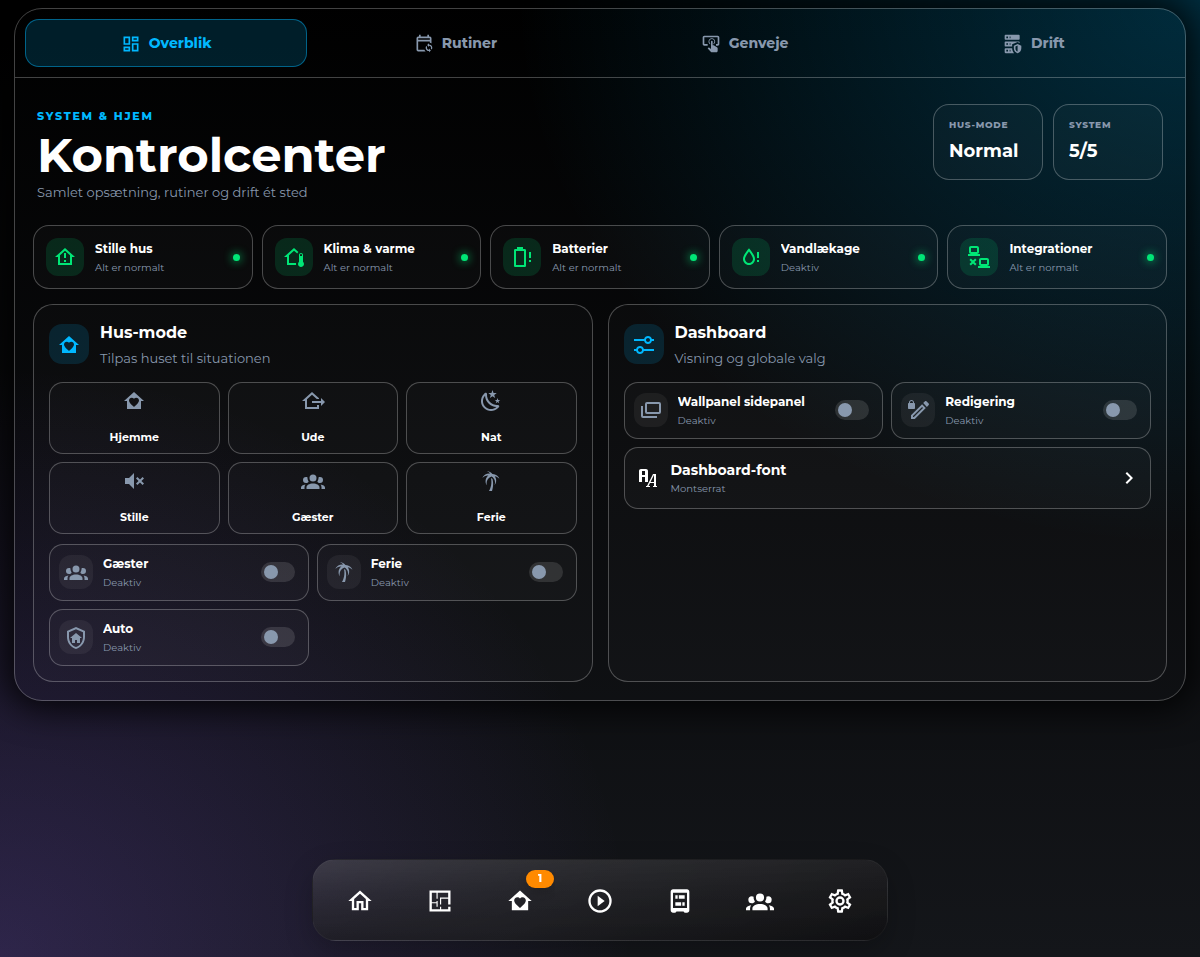
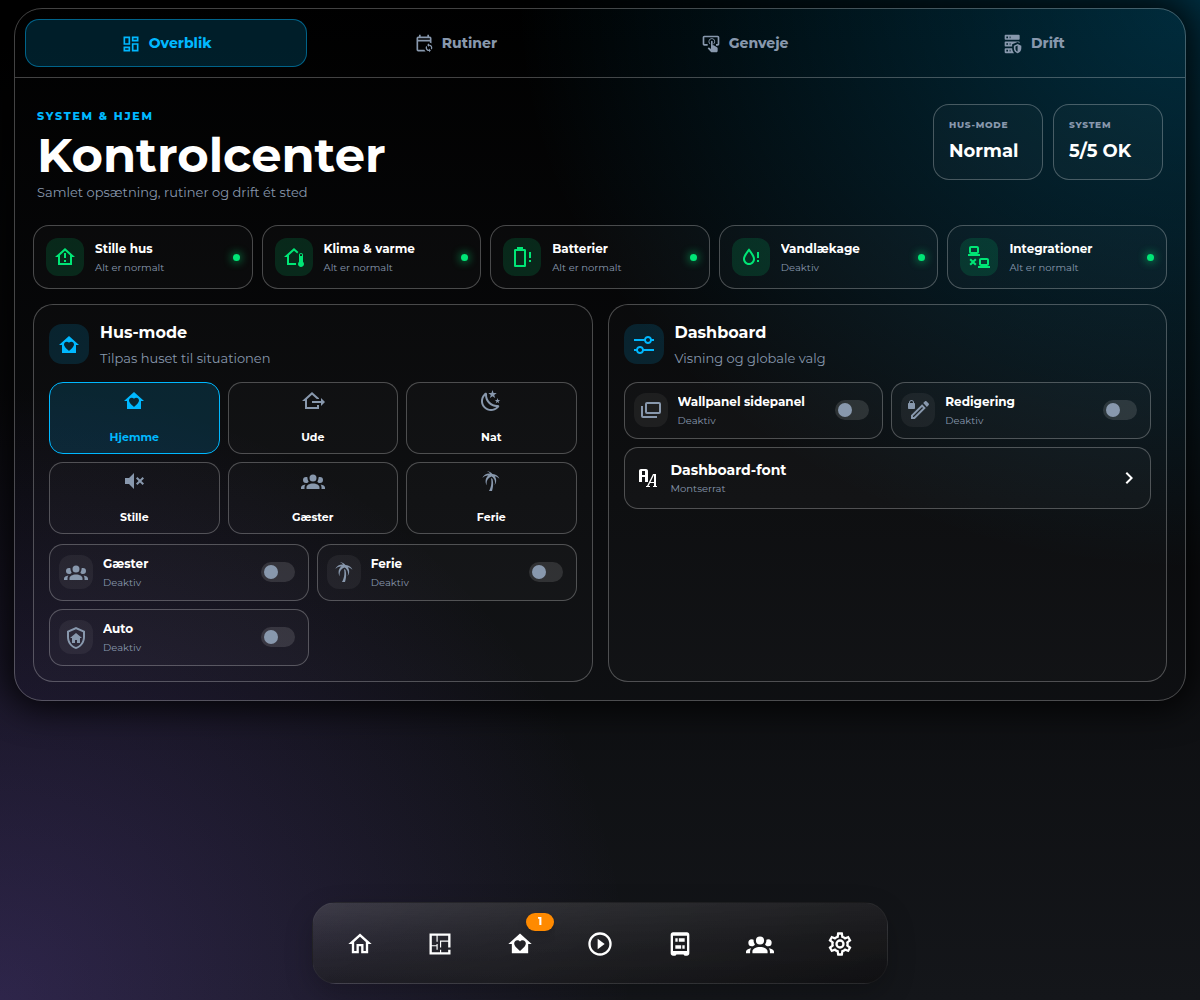
Improve settings status visibility

diff --git a/ha-settings-center-card.js b/ha-settings-center-card.js
@@ -1,4 +1,4 @@
-const VERSION="0.1.3";
+const VERSION="0.1.4";
 class HASettingsCenterCard extends HTMLElement{
  constructor(){super();this.attachShadow({mode:"open"});this._config={};this._hass=null;this._tab="overview";this._stateSig="";this._interactionUntil=0;this._deferredRender=null}
  static getStubConfig(){return{title:"Kontrolcenter",default_tab:"overview",overview:{},tabs:{automation_groups:[],control_groups:[],operations:{}}}}
@@ -19,18 +19,19 @@ class HASettingsCenterCard extends HTMLElement{
  _navigate(path){history.pushState(null,"",path);window.dispatchEvent(new Event("location-changed"))}
  _friendlyState(id){const e=this._e(id),s=e?.state;if(!e)return"Mangler";if(s==="on")return"Aktiv";if(s==="off")return"Deaktiv";if(["unknown","unavailable"].includes(s))return"Ikke tilgængelig";return e.attributes?.friendly_name&&s?String(s).replaceAll("_"," "):s}
  _tabs(){return[{id:"overview",name:"Overblik",icon:"mdi:view-dashboard-outline"},{id:"routines",name:"Rutiner",icon:"mdi:calendar-sync-outline"},{id:"controls",name:"Genveje",icon:"mdi:gesture-tap-button"},{id:"operations",name:"Drift",icon:"mdi:server-security"}]}
- _status(item){const e=this._e(item.entity),binary=item.binary,problem=binary?this._isOn(item.entity):Number(e?.state)>0||["critical","warn","error","failed"].includes(String(e?.state).toLowerCase());let detail="Alt er normalt";if(problem)detail=binary?"Registreret":`${e?.state||0} kræver fokus`;else if(e&&!Number.isFinite(Number(e.state)))detail=this._friendlyState(item.entity);return `<button class="status ${problem?"problem":"ok"}" data-more="${this._esc(item.entity)}"><span class="ico">${this._icon(item.icon)}</span><span><b>${this._esc(item.name)}</b><small>${this._esc(detail)}</small></span><i></i></button>`}
+ _problem(item){const e=this._e(item.entity);return item.binary?this._isOn(item.entity):Number(e?.state)>0||["critical","warn","error","failed"].includes(String(e?.state).toLowerCase())}
+ _status(item){const e=this._e(item.entity),binary=item.binary,problem=this._problem(item);let detail="Alt er normalt";if(problem)detail=binary?"Registreret":`${e?.state||0} kræver fokus`;else if(e&&!Number.isFinite(Number(e.state)))detail=this._friendlyState(item.entity);return `<button class="status ${problem?"problem":"ok"}" data-more="${this._esc(item.entity)}"><span class="ico">${this._icon(item.icon)}</span><span><b>${this._esc(item.name)}</b><small>${this._esc(detail)}</small></span><i></i></button>`}
  _toggleItem(item){const on=this._isOn(item.entity),avail=this._available(item.entity);return `<button class="toggle ${on?"on":""} ${avail?"":"missing"}" data-toggle="${this._esc(item.entity)}"><span class="ico">${this._icon(item.icon||"mdi:toggle-switch-outline")}</span><span><b>${this._esc(item.name)}</b><small>${avail?(on?"Aktiv":"Deaktiv"):"Ikke tilgængelig"}</small></span><i><em></em></i></button>`}
  _numberItem(item){const e=this._e(item.entity),value=e?.state??"—",unit=e?.attributes?.unit_of_measurement||item.unit||"",sensor=item.sensor_entity?this._state(item.sensor_entity):null;return `<article class="number"><div><b>${this._esc(item.name)}</b>${sensor!==null?`<small>Målt ${this._esc(sensor)}${this._esc(item.sensor_unit||"")}</small>`:""}</div><div class="step"><button data-step="${this._esc(item.entity)}|-">−</button><strong>${this._esc(value)}<small>${this._esc(unit)}</small></strong><button data-step="${this._esc(item.entity)}|+">+</button></div></article>`}
  _entityItem(item){const state=this._friendlyState(item.entity);return `<button class="select-row" data-more="${this._esc(item.entity)}">${this._icon(item.icon||"mdi:tune-variant")}<span><b>${this._esc(item.name)}</b><small>${this._esc(state)}</small></span>${this._icon("mdi:chevron-right")}</button>`}
- _group(g){const kind=g.kind||"toggle",items=g.items||[];return `<section class="group"><header><span class="section-icon">${this._icon(g.icon)}</span><div><h3>${this._esc(g.title)}</h3>${g.subtitle?`<p>${this._esc(g.subtitle)}</p>`:""}</div><span class="count">${items.length}</span></header><div class="items kind-${kind}">${items.map(x=>kind==="number"?this._numberItem(x):kind==="entity"?this._entityItem(x):this._toggleItem(x)).join("")}</div></section>`}
- _overview(){const o=this._config.overview||{},mode=o.mode||{},current=this._state(mode.entity);return `<div class="pane overview"><section class="hero"><div><span class="eyebrow">SYSTEM & HJEM</span><h2>${this._esc(this._config.title)}</h2><p>Samlet opsætning, rutiner og drift ét sted</p></div><div class="hero-stats"><span><small>HUS-MODE</small><b>${this._esc(current)}</b></span><span><small>SYSTEM</small><b>${(o.status_items||[]).filter(x=>this._available(x.entity)).length}/${(o.status_items||[]).length}</b></span></div></section><section class="status-grid">${(o.status_items||[]).map(x=>this._status(x)).join("")}</section><div class="overview-grid"><section class="group mode"><header><span class="section-icon">${this._icon("mdi:home-heart")}</span><div><h3>Hus-mode</h3><p>Tilpas huset til situationen</p></div></header><div class="mode-grid">${(mode.options||[]).map(x=>`<button class="mode-btn ${current===x.value?"active":""}" data-mode="${this._esc(mode.entity)}|${this._esc(x.value)}">${this._icon(x.icon)}<b>${this._esc(x.name)}</b></button>`).join("")}</div><div class="items kind-toggle">${(mode.overrides||[]).map(x=>this._toggleItem(x)).join("")}</div></section><section class="group quick"><header><span class="section-icon">${this._icon("mdi:tune-variant")}</span><div><h3>Dashboard</h3><p>Visning og globale valg</p></div></header><div class="items kind-toggle">${(o.dashboard_items||[]).map(x=>this._toggleItem(x)).join("")}</div>${o.font_entity?`<button class="select-row" data-more="${this._esc(o.font_entity)}">${this._icon("mdi:format-font")}<span><b>Dashboard-font</b><small>${this._esc(this._state(o.font_entity))}</small></span>${this._icon("mdi:chevron-right")}</button>`:""}</section></div></div>`}
+ _group(g){const kind=g.kind||"toggle",items=g.items||[],active=items.filter(x=>this._isOn(x.entity)).length,missing=items.filter(x=>!this._available(x.entity)).length,badge=kind==="toggle"?`${active}/${items.length} aktive`:missing?`${missing} mangler`:`${items.length} valg`;return `<section class="group"><header><span class="section-icon">${this._icon(g.icon)}</span><div><h3>${this._esc(g.title)}</h3>${g.subtitle?`<p>${this._esc(g.subtitle)}</p>`:""}</div><span class="count ${missing?"warn":""}">${badge}</span></header><div class="items kind-${kind}">${items.map(x=>kind==="number"?this._numberItem(x):kind==="entity"?this._entityItem(x):this._toggleItem(x)).join("")}</div></section>`}
+ _overview(){const o=this._config.overview||{},mode=o.mode||{},current=this._state(mode.entity);return `<div class="pane overview"><section class="hero"><div><span class="eyebrow">SYSTEM & HJEM</span><h2>${this._esc(this._config.title)}</h2><p>Samlet opsætning, rutiner og drift ét sted</p></div><div class="hero-stats"><span><small>HUS-MODE</small><b>${this._esc(current)}</b></span><span><small>SYSTEM</small><b>${(o.status_items||[]).filter(x=>this._available(x.entity)&&!this._problem(x)).length}/${(o.status_items||[]).length} OK</b></span></div></section><section class="status-grid">${(o.status_items||[]).map(x=>this._status(x)).join("")}</section><div class="overview-grid"><section class="group mode"><header><span class="section-icon">${this._icon("mdi:home-heart")}</span><div><h3>Hus-mode</h3><p>Tilpas huset til situationen</p></div></header><div class="mode-grid">${(mode.options||[]).map(x=>`<button class="mode-btn ${current===x.value?"active":""}" data-mode="${this._esc(mode.entity)}|${this._esc(x.value)}">${this._icon(x.icon)}<b>${this._esc(x.name)}</b></button>`).join("")}</div><div class="items kind-toggle">${(mode.overrides||[]).map(x=>this._toggleItem(x)).join("")}</div></section><section class="group quick"><header><span class="section-icon">${this._icon("mdi:tune-variant")}</span><div><h3>Dashboard</h3><p>Visning og globale valg</p></div></header><div class="items kind-toggle">${(o.dashboard_items||[]).map(x=>this._toggleItem(x)).join("")}</div>${o.font_entity?`<button class="select-row" data-more="${this._esc(o.font_entity)}">${this._icon("mdi:format-font")}<span><b>Dashboard-font</b><small>${this._esc(this._state(o.font_entity))}</small></span>${this._icon("mdi:chevron-right")}</button>`:""}</section></div></div>`}
  _routines(){return `<div class="pane"><div class="pane-title"><span><b>Automatik & rutiner</b><small>Presence, lys, tider og varme</small></span></div><div class="groups">${(this._config.automation_groups||[]).map(g=>this._group(g)).join("")}</div></div>`}
  _controls(){return `<div class="pane"><div class="pane-title"><span><b>Direkte styring</b><small>Maskiner, udelys og scener</small></span></div><div class="groups">${(this._config.control_groups||[]).map(g=>this._group(g)).join("")}</div>${this._scene()}</div>`}
  _scene(){const s=this._config.scene;if(!s)return"";return `<section class="group scene"><header><span class="section-icon">${this._icon("mdi:movie-open")}</span><div><h3>${this._esc(s.title)}</h3><p>Lysniveau og farve til film</p></div>${this._toggleItem({entity:s.toggle_entity,name:s.toggle_name,icon:"mdi:movie-open"})}</header><div class="scene-grid">${(s.lights||[]).map(l=>`<article><span class="ico">${this._icon(l.icon)}</span><div><b>${this._esc(l.name)}</b><small>${this._esc(this._state(l.brightness_entity))}% · ${this._esc(this._state(l.color_entity))}</small></div><button data-more="${this._esc(l.brightness_entity)}">Lys</button><button data-more="${this._esc(l.color_entity)}">Farve</button></article>`).join("")}</div></section>`}
  _operations(){const o=this._config.operations||{};return `<div class="pane"><div class="pane-title"><span><b>Drift & vedligehold</b><small>Systemstatus og sikre handlinger</small></span>${o.info_path?`<button class="link" data-nav="${this._esc(o.info_path)}">Systeminfo ${this._icon("mdi:arrow-right")}</button>`:""}</div><section class="metrics">${(o.metrics||[]).map(m=>`<button data-more="${this._esc(m.entity)}"><span>${this._icon(m.icon)}</span><small>${this._esc(m.name)}</small><b>${this._esc(this._state(m.entity))}${this._esc(m.unit||"")}</b></button>`).join("")}</section><div class="action-groups">${(o.groups||[]).map(g=>`<section class="group actions"><header><span class="section-icon">${this._icon(g.icon)}</span><div><h3>${this._esc(g.title)}</h3><p>${this._esc(g.subtitle||"")}</p></div></header><div>${(g.items||[]).map(a=>`<button class="action ${a.danger?"danger":""}" data-action="${this._esc(JSON.stringify(a))}"><span>${this._icon(a.icon)}</span><span><b>${this._esc(a.name)}</b><small>${this._esc(a.description||"")}</small></span>${this._icon("mdi:chevron-right")}</button>`).join("")}</div></section>`).join("")}</div></div>`}
  _render(){if(!this.shadowRoot)return;const body=this._tab==="overview"?this._overview():this._tab==="routines"?this._routines():this._tab==="controls"?this._controls():this._operations();this.shadowRoot.innerHTML=`<style>
-:host{display:block;--accent:var(--dashboard-accent,#62b5ff);--good:var(--dashboard-success,#54d9aa);--warn:var(--dashboard-warning,#ffbd59);--danger:var(--dashboard-danger,#ff667a);--edge:var(--dashboard-border-neutral,rgba(255,255,255,.12));--surface:var(--surface,var(--ha-card-background,var(--card-background-color,#111d2a)));color:var(--primary-text-color)}*{box-sizing:border-box}button{font:inherit;color:inherit}ha-card{overflow:hidden;border:1px solid var(--edge);border-radius:28px;background:linear-gradient(145deg,color-mix(in srgb,var(--accent) 4%,transparent),transparent 42%),var(--surface);box-shadow:var(--dashboard-shadow-deep,var(--ha-card-box-shadow));}.tabs{display:grid;grid-template-columns:repeat(4,1fr);gap:7px;padding:10px;border-bottom:1px solid var(--edge);background:color-mix(in srgb,var(--surface) 90%,transparent);position:sticky;top:0;z-index:8}.tabs button{display:flex;align-items:center;justify-content:center;gap:8px;min-height:48px;border:1px solid transparent;border-radius:14px;background:transparent;color:var(--secondary-text-color);cursor:pointer;font-weight:750}.tabs button.active{background:color-mix(in srgb,var(--accent) 16%,transparent);border-color:color-mix(in srgb,var(--accent) 45%,transparent);color:var(--accent)}.tabs ha-icon{--mdc-icon-size:20px}.pane{padding:18px}.hero{display:flex;justify-content:space-between;align-items:flex-start;gap:20px;padding:8px 4px 22px}.eyebrow{color:var(--accent);font-size:11px;font-weight:800;letter-spacing:.16em}.hero h2{margin:5px 0 3px;font-size:clamp(28px,5vw,48px);line-height:1}.hero p,.group header p{margin:0;color:var(--secondary-text-color);font-size:13px}.hero-stats{display:flex;gap:10px}.hero-stats span{min-width:110px;padding:13px 15px;border:1px solid var(--edge);border-radius:16px;background:rgba(255,255,255,.025)}.hero-stats small,.metric small{display:block;color:var(--secondary-text-color);font-size:9px;font-weight:800;letter-spacing:.08em}.hero-stats b{display:block;margin-top:5px;font-size:18px}.status-grid{display:grid;grid-template-columns:repeat(5,1fr);gap:9px;margin-bottom:15px}.status{display:grid;grid-template-columns:40px 1fr 7px;align-items:center;gap:9px;min-width:0;padding:12px;border:1px solid var(--edge);border-radius:16px;background:rgba(255,255,255,.025);text-align:left;cursor:pointer}.status .ico,.toggle .ico,.scene-grid .ico{display:grid;place-items:center;width:38px;height:38px;border-radius:12px;background:color-mix(in srgb,var(--good) 14%,transparent);color:var(--good)}.status.problem .ico{background:color-mix(in srgb,var(--danger) 14%,transparent);color:var(--danger)}.status b,.toggle b{display:block;overflow:hidden;text-overflow:ellipsis;white-space:nowrap;font-size:12px}.status small,.toggle small,.scene-grid small,.action small{display:block;margin-top:2px;color:var(--secondary-text-color);font-size:10px}.status i{width:7px;height:7px;border-radius:50%;background:var(--good);box-shadow:0 0 10px var(--good)}.status.problem i{background:var(--danger);box-shadow:0 0 10px var(--danger);animation:pulse 1.8s infinite}.overview-grid,.groups,.action-groups{display:grid;grid-template-columns:repeat(2,minmax(0,1fr));gap:15px}.group{min-width:0;padding:15px;border:1px solid var(--edge);border-radius:20px;background:rgba(255,255,255,.018)}.group header{display:flex;align-items:center;gap:11px;margin-bottom:13px}.group header h3{margin:0 0 2px;font-size:16px}.section-icon{display:grid;place-items:center;width:40px;height:40px;border-radius:13px;background:color-mix(in srgb,var(--accent) 14%,transparent);color:var(--accent)}.count{margin-left:auto;padding:4px 8px;border-radius:999px;background:rgba(255,255,255,.06);color:var(--secondary-text-color);font-size:10px}.items{display:grid;grid-template-columns:repeat(2,minmax(0,1fr));gap:8px}.items.kind-number{grid-template-columns:1fr}.toggle{display:grid;grid-template-columns:36px 1fr 38px;align-items:center;gap:8px;min-width:0;padding:9px;border:1px solid var(--edge);border-radius:14px;background:rgba(255,255,255,.025);text-align:left;cursor:pointer}.toggle .ico{width:34px;height:34px;background:rgba(255,255,255,.055);color:var(--secondary-text-color)}.toggle>i{position:relative;width:34px;height:20px;border-radius:999px;background:rgba(255,255,255,.12)}.toggle>i em{position:absolute;left:3px;top:3px;width:14px;height:14px;border-radius:50%;background:var(--secondary-text-color);transition:.25s}.toggle.on{border-color:color-mix(in srgb,var(--good) 40%,transparent)}.toggle.on .ico{color:var(--good);background:color-mix(in srgb,var(--good) 14%,transparent)}.toggle.on>i{background:color-mix(in srgb,var(--good) 45%,transparent)}.toggle.on>i em{left:17px;background:var(--good)}.toggle.missing{opacity:.48}.mode-grid{display:grid;grid-template-columns:repeat(3,1fr);gap:8px;margin-bottom:10px}.mode-btn{display:grid;place-items:center;gap:5px;min-height:72px;border:1px solid var(--edge);border-radius:14px;background:rgba(255,255,255,.02);cursor:pointer}.mode-btn ha-icon{color:var(--secondary-text-color)}.mode-btn b{font-size:11px}.mode-btn.active{border-color:var(--accent);background:color-mix(in srgb,var(--accent) 15%,transparent);color:var(--accent)}.mode-btn.active ha-icon{color:var(--accent)}.select-row{display:grid;grid-template-columns:35px 1fr 22px;align-items:center;width:100%;margin-top:8px;padding:11px;border:1px solid var(--edge);border-radius:14px;background:rgba(255,255,255,.025);text-align:left;cursor:pointer}.select-row span b,.select-row span small{display:block}.select-row span small{color:var(--secondary-text-color);font-size:10px}.pane-title{display:flex;align-items:center;justify-content:space-between;margin:0 2px 15px}.pane-title span b,.pane-title span small{display:block}.pane-title span b{font-size:21px}.pane-title span small{margin-top:3px;color:var(--secondary-text-color);font-size:12px}.number{display:flex;align-items:center;justify-content:space-between;gap:8px;padding:9px 10px;border:1px solid var(--edge);border-radius:14px}.number>div:first-child b,.number>div:first-child small{display:block}.number>div:first-child b{font-size:12px}.number>div:first-child small{color:var(--secondary-text-color);font-size:9px}.step{display:flex;align-items:center;gap:5px}.step button{width:29px;height:29px;border:1px solid var(--edge);border-radius:9px;background:rgba(255,255,255,.05);cursor:pointer}.step strong{min-width:54px;text-align:center;font-size:14px}.step strong small{font-size:9px;color:var(--secondary-text-color)}.scene{margin-top:15px}.scene header>.toggle{margin-left:auto;min-width:190px}.scene-grid{display:grid;grid-template-columns:repeat(2,1fr);gap:9px}.scene-grid article{display:grid;grid-template-columns:40px 1fr auto auto;align-items:center;gap:8px;padding:11px;border:1px solid var(--edge);border-radius:15px}.scene-grid article button,.link{padding:7px 10px;border:1px solid var(--edge);border-radius:10px;background:rgba(255,255,255,.05);cursor:pointer;font-size:10px}.metrics{display:grid;grid-template-columns:repeat(5,1fr);gap:9px;margin-bottom:15px}.metrics button{display:grid;grid-template-columns:35px 1fr;grid-template-areas:'i n' 'i v';align-items:center;padding:11px;border:1px solid var(--edge);border-radius:15px;background:rgba(255,255,255,.025);text-align:left;cursor:pointer}.metrics button>span{grid-area:i;color:var(--accent)}.metrics small{grid-area:n}.metrics b{grid-area:v;font-size:13px}.actions>div{display:grid;gap:8px}.action{display:grid;grid-template-columns:38px 1fr 22px;align-items:center;gap:9px;width:100%;padding:10px;border:1px solid var(--edge);border-radius:14px;background:rgba(255,255,255,.025);text-align:left;cursor:pointer}.action>span:first-child{color:var(--warn)}.action.danger{border-color:color-mix(in srgb,var(--danger) 35%,transparent)}.action.danger>span:first-child{color:var(--danger)}.link{display:flex;align-items:center;gap:6px;color:var(--accent)}@keyframes pulse{50%{opacity:.35;transform:scale(.8)}}
+:host{display:block;--accent:var(--dashboard-accent,#62b5ff);--good:var(--dashboard-success,#54d9aa);--warn:var(--dashboard-warning,#ffbd59);--danger:var(--dashboard-danger,#ff667a);--edge:var(--dashboard-border-neutral,rgba(255,255,255,.12));--surface:var(--surface,var(--ha-card-background,var(--card-background-color,#111d2a)));color:var(--primary-text-color)}*{box-sizing:border-box}button{font:inherit;color:inherit}ha-card{overflow:hidden;border:1px solid var(--edge);border-radius:28px;background:linear-gradient(145deg,color-mix(in srgb,var(--accent) 4%,transparent),transparent 42%),var(--surface);box-shadow:var(--dashboard-shadow-deep,var(--ha-card-box-shadow));}.tabs{display:grid;grid-template-columns:repeat(4,1fr);gap:7px;padding:10px;border-bottom:1px solid var(--edge);background:color-mix(in srgb,var(--surface) 90%,transparent);position:sticky;top:0;z-index:8}.tabs button{display:flex;align-items:center;justify-content:center;gap:8px;min-height:48px;border:1px solid transparent;border-radius:14px;background:transparent;color:var(--secondary-text-color);cursor:pointer;font-weight:750}.tabs button.active{background:color-mix(in srgb,var(--accent) 16%,transparent);border-color:color-mix(in srgb,var(--accent) 45%,transparent);color:var(--accent)}.tabs ha-icon{--mdc-icon-size:20px}.pane{padding:18px}.hero{display:flex;justify-content:space-between;align-items:flex-start;gap:20px;padding:8px 4px 22px}.eyebrow{color:var(--accent);font-size:11px;font-weight:800;letter-spacing:.16em}.hero h2{margin:5px 0 3px;font-size:clamp(28px,5vw,48px);line-height:1}.hero p,.group header p{margin:0;color:var(--secondary-text-color);font-size:13px}.hero-stats{display:flex;gap:10px}.hero-stats span{min-width:110px;padding:13px 15px;border:1px solid var(--edge);border-radius:16px;background:rgba(255,255,255,.025)}.hero-stats small,.metric small{display:block;color:var(--secondary-text-color);font-size:9px;font-weight:800;letter-spacing:.08em}.hero-stats b{display:block;margin-top:5px;font-size:18px}.status-grid{display:grid;grid-template-columns:repeat(5,1fr);gap:9px;margin-bottom:15px}.status{display:grid;grid-template-columns:40px 1fr 7px;align-items:center;gap:9px;min-width:0;padding:12px;border:1px solid var(--edge);border-radius:16px;background:rgba(255,255,255,.025);text-align:left;cursor:pointer}.status .ico,.toggle .ico,.scene-grid .ico{display:grid;place-items:center;width:38px;height:38px;border-radius:12px;background:color-mix(in srgb,var(--good) 14%,transparent);color:var(--good)}.status.problem .ico{background:color-mix(in srgb,var(--danger) 14%,transparent);color:var(--danger)}.status b,.toggle b{display:block;overflow:hidden;text-overflow:ellipsis;white-space:nowrap;font-size:12px}.status small,.toggle small,.scene-grid small,.action small{display:block;margin-top:2px;color:var(--secondary-text-color);font-size:10px}.status i{width:7px;height:7px;border-radius:50%;background:var(--good);box-shadow:0 0 10px var(--good)}.status.problem i{background:var(--danger);box-shadow:0 0 10px var(--danger);animation:pulse 1.8s infinite}.overview-grid,.groups,.action-groups{display:grid;grid-template-columns:repeat(2,minmax(0,1fr));gap:15px}.group{min-width:0;padding:15px;border:1px solid var(--edge);border-radius:20px;background:rgba(255,255,255,.018)}.group header{display:flex;align-items:center;gap:11px;margin-bottom:13px}.group header h3{margin:0 0 2px;font-size:16px}.section-icon{display:grid;place-items:center;width:40px;height:40px;border-radius:13px;background:color-mix(in srgb,var(--accent) 14%,transparent);color:var(--accent)}.count{margin-left:auto;padding:4px 8px;border-radius:999px;background:color-mix(in srgb,var(--good) 12%,transparent);color:var(--good);font-size:10px;font-weight:750}.count.warn{background:color-mix(in srgb,var(--danger) 12%,transparent);color:var(--danger)}.items{display:grid;grid-template-columns:repeat(2,minmax(0,1fr));gap:8px}.items.kind-number{grid-template-columns:1fr}.toggle{display:grid;grid-template-columns:36px 1fr 38px;align-items:center;gap:8px;min-width:0;padding:9px;border:1px solid var(--edge);border-radius:14px;background:rgba(255,255,255,.025);text-align:left;cursor:pointer}.toggle .ico{width:34px;height:34px;background:rgba(255,255,255,.055);color:var(--secondary-text-color)}.toggle>i{position:relative;width:34px;height:20px;border-radius:999px;background:rgba(255,255,255,.12)}.toggle>i em{position:absolute;left:3px;top:3px;width:14px;height:14px;border-radius:50%;background:var(--secondary-text-color);transition:.25s}.toggle.on{border-color:color-mix(in srgb,var(--good) 40%,transparent)}.toggle.on .ico{color:var(--good);background:color-mix(in srgb,var(--good) 14%,transparent)}.toggle.on>i{background:color-mix(in srgb,var(--good) 45%,transparent)}.toggle.on>i em{left:17px;background:var(--good)}.toggle.missing{opacity:.72;border-color:color-mix(in srgb,var(--danger) 45%,transparent)}.toggle.missing .ico{color:var(--danger);background:color-mix(in srgb,var(--danger) 13%,transparent)}.mode-grid{display:grid;grid-template-columns:repeat(3,1fr);gap:8px;margin-bottom:10px}.mode-btn{display:grid;place-items:center;gap:5px;min-height:72px;border:1px solid var(--edge);border-radius:14px;background:rgba(255,255,255,.02);cursor:pointer}.mode-btn ha-icon{color:var(--secondary-text-color)}.mode-btn b{font-size:11px}.mode-btn.active{border-color:var(--accent);background:color-mix(in srgb,var(--accent) 15%,transparent);color:var(--accent)}.mode-btn.active ha-icon{color:var(--accent)}.select-row{display:grid;grid-template-columns:35px 1fr 22px;align-items:center;width:100%;margin-top:8px;padding:11px;border:1px solid var(--edge);border-radius:14px;background:rgba(255,255,255,.025);text-align:left;cursor:pointer}.select-row span b,.select-row span small{display:block}.select-row span small{color:var(--secondary-text-color);font-size:10px}.pane-title{display:flex;align-items:center;justify-content:space-between;margin:0 2px 15px}.pane-title span b,.pane-title span small{display:block}.pane-title span b{font-size:21px}.pane-title span small{margin-top:3px;color:var(--secondary-text-color);font-size:12px}.number{display:flex;align-items:center;justify-content:space-between;gap:8px;padding:9px 10px;border:1px solid var(--edge);border-radius:14px}.number>div:first-child b,.number>div:first-child small{display:block}.number>div:first-child b{font-size:12px}.number>div:first-child small{color:var(--secondary-text-color);font-size:9px}.step{display:flex;align-items:center;gap:5px}.step button{width:29px;height:29px;border:1px solid var(--edge);border-radius:9px;background:rgba(255,255,255,.05);cursor:pointer}.step strong{min-width:54px;text-align:center;font-size:14px}.step strong small{font-size:9px;color:var(--secondary-text-color)}.scene{margin-top:15px}.scene header>.toggle{margin-left:auto;min-width:190px}.scene-grid{display:grid;grid-template-columns:repeat(2,1fr);gap:9px}.scene-grid article{display:grid;grid-template-columns:40px 1fr auto auto;align-items:center;gap:8px;padding:11px;border:1px solid var(--edge);border-radius:15px}.scene-grid article button,.link{padding:7px 10px;border:1px solid var(--edge);border-radius:10px;background:rgba(255,255,255,.05);cursor:pointer;font-size:10px}.metrics{display:grid;grid-template-columns:repeat(5,1fr);gap:9px;margin-bottom:15px}.metrics button{display:grid;grid-template-columns:35px 1fr;grid-template-areas:'i n' 'i v';align-items:center;padding:11px;border:1px solid var(--edge);border-radius:15px;background:rgba(255,255,255,.025);text-align:left;cursor:pointer}.metrics button>span{grid-area:i;color:var(--accent)}.metrics small{grid-area:n}.metrics b{grid-area:v;font-size:13px}.actions>div{display:grid;gap:8px}.action{display:grid;grid-template-columns:38px 1fr 22px;align-items:center;gap:9px;width:100%;padding:10px;border:1px solid var(--edge);border-radius:14px;background:rgba(255,255,255,.025);text-align:left;cursor:pointer}.action>span:first-child{color:var(--warn)}.action.danger{border-color:color-mix(in srgb,var(--danger) 35%,transparent)}.action.danger>span:first-child{color:var(--danger)}.link{display:flex;align-items:center;gap:6px;color:var(--accent)}@keyframes pulse{50%{opacity:.35;transform:scale(.8)}}
 @media(max-width:760px){.tabs{gap:4px;padding:7px}.tabs button{flex-direction:column;gap:2px;min-height:52px;font-size:9px}.pane{padding:11px}.hero{align-items:center}.hero p{font-size:11px}.hero-stats span{min-width:0;padding:9px}.hero-stats span:first-child{display:none}.status-grid{grid-template-columns:repeat(2,1fr)}.status-grid .status:last-child{grid-column:span 2}.overview-grid,.groups,.action-groups{grid-template-columns:1fr}.items{grid-template-columns:repeat(2,minmax(0,1fr))}.metrics{grid-template-columns:repeat(2,1fr)}.metrics button:last-child{grid-column:span 2}.scene-grid{grid-template-columns:1fr}.scene header{flex-wrap:wrap}.scene header>.toggle{margin-left:0;min-width:100%;}.mode-grid{grid-template-columns:repeat(3,1fr)}}@media(max-width:390px){.hero-stats{display:none}.status{grid-template-columns:34px 1fr 6px;padding:8px}.status .ico{width:32px;height:32px}.items{grid-template-columns:1fr}.mode-grid{grid-template-columns:repeat(2,1fr)}}@media(prefers-reduced-motion:reduce){*{animation:none!important;transition:none!important}}</style><ha-card><nav class="tabs">${this._tabs().map(t=>`<button data-tab="${t.id}" class="${this._tab===t.id?"active":""}">${this._icon(t.icon)}<span>${t.name}</span></button>`).join("")}</nav>${body}</ha-card>`;this._bind()}
  _bind(){const r=this.shadowRoot;r.querySelectorAll("[data-tab]").forEach(b=>b.onclick=()=>{this._tab=b.dataset.tab;this._render()});r.querySelectorAll("[data-toggle]").forEach(b=>b.onclick=()=>this._toggle(b.dataset.toggle));r.querySelectorAll("[data-more]").forEach(b=>b.onclick=()=>this._more(b.dataset.more));r.querySelectorAll("[data-nav]").forEach(b=>b.onclick=()=>this._navigate(b.dataset.nav));r.querySelectorAll("[data-mode]").forEach(b=>b.onclick=()=>{const [entity,option]=b.dataset.mode.split("|");this._call("input_select.select_option",{option},{entity_id:entity})});r.querySelectorAll("[data-step]").forEach(b=>b.onclick=()=>{const [entity,d]=b.dataset.step.split("|");this._call(`input_number.${d==="+"?"increment":"decrement"}`,{}, {entity_id:entity})});r.querySelectorAll("[data-action]").forEach(b=>b.onclick=()=>{const a=JSON.parse(b.dataset.action);if(a.confirm&&!confirm(a.confirm))return;if(a.service)this._call(a.service,a.data||{},a.entity?{entity_id:a.entity}:a.target);else if(a.path)this._navigate(a.path)})}
 }
